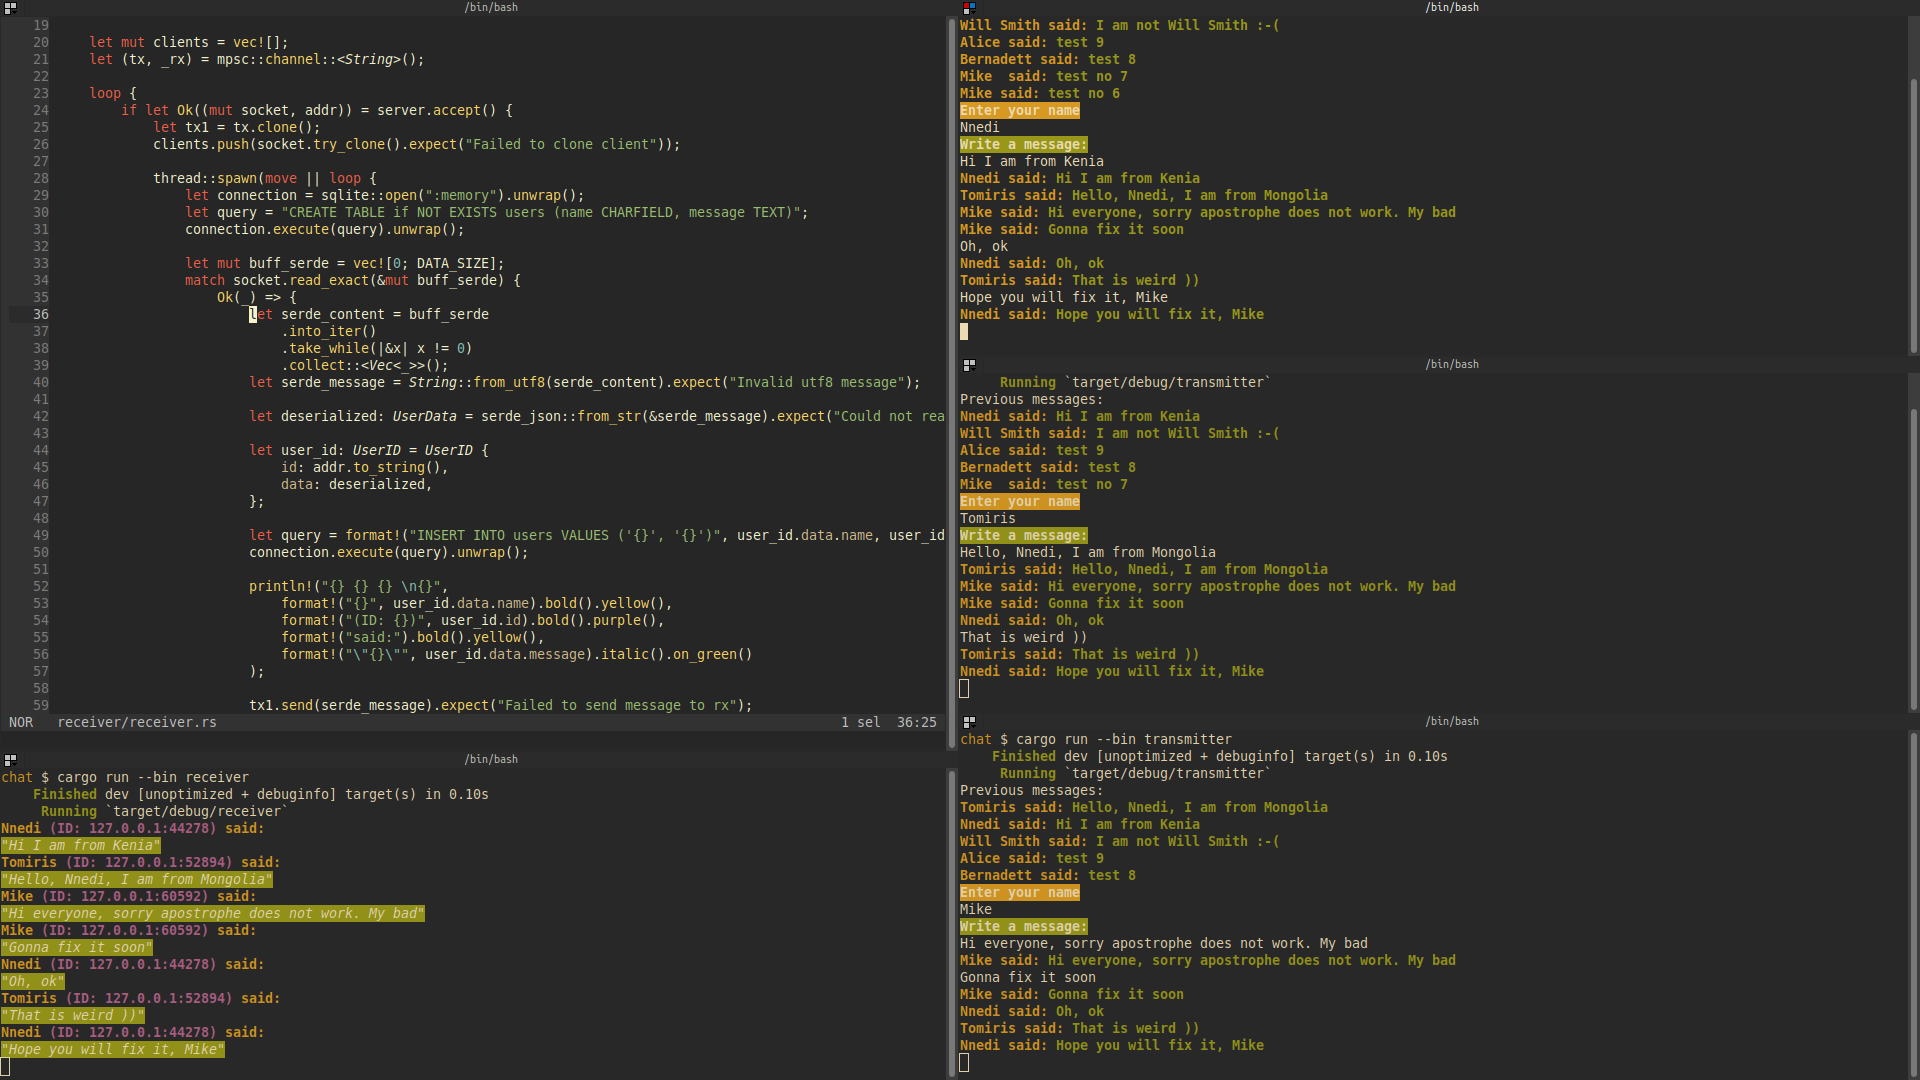
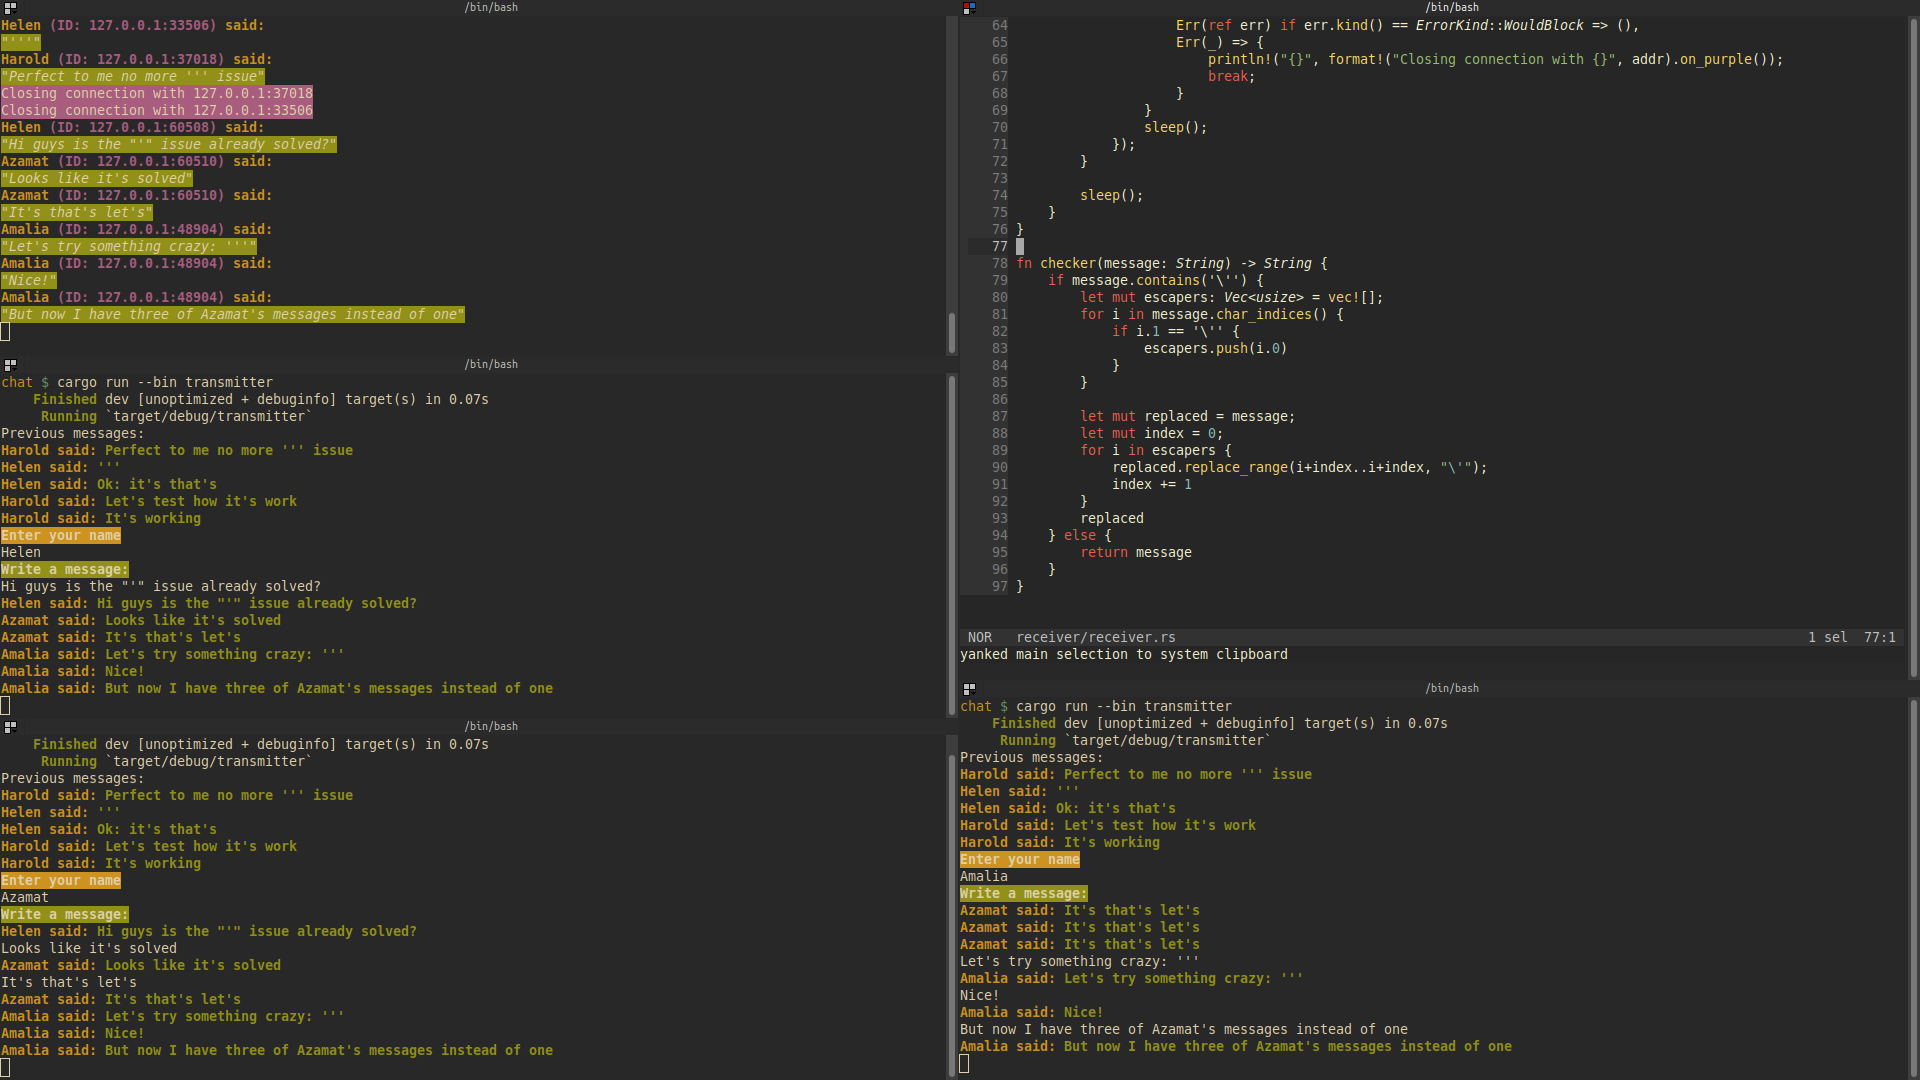
apostrophee issue solved

diff --git a/receiver/receiver.rs b/receiver/receiver.rs
@@ -46,7 +46,10 @@ pub fn receiver(server: TcpListener) {
                             data: deserialized,
                         };
                         
-                        let query = format!("INSERT INTO users VALUES ('{}', '{}')", user_id.data.name, user_id.data.message);
+                        let username = format!("{}", user_id.data.name);
+                        // let usermessage = format!("{}", user_id.data.message);
+                        let usermessage = checker(user_id.data.message.clone());
+                        let query = format!("INSERT INTO users VALUES ('{}', '{}')", username, usermessage);
                         connection.execute(query).unwrap();
 
                         println!("{} {} {} \n{}", 
@@ -69,5 +72,26 @@ pub fn receiver(server: TcpListener) {
         }
 
         sleep();
+    }
+}
+
+fn checker(message: String) -> String {
+    if message.contains('\'') {
+        let mut escapers: Vec<usize> = vec![];
+        for i in message.char_indices() {
+            if i.1 == '\'' {
+                escapers.push(i.0)
+            }
+        }
+
+        let mut replaced = message;
+        let mut index = 0;
+        for i in escapers {
+            replaced.replace_range(i+index..i+index, "\'");
+            index += 1
+        }
+        replaced
+    } else {
+        return message
     }
 }
